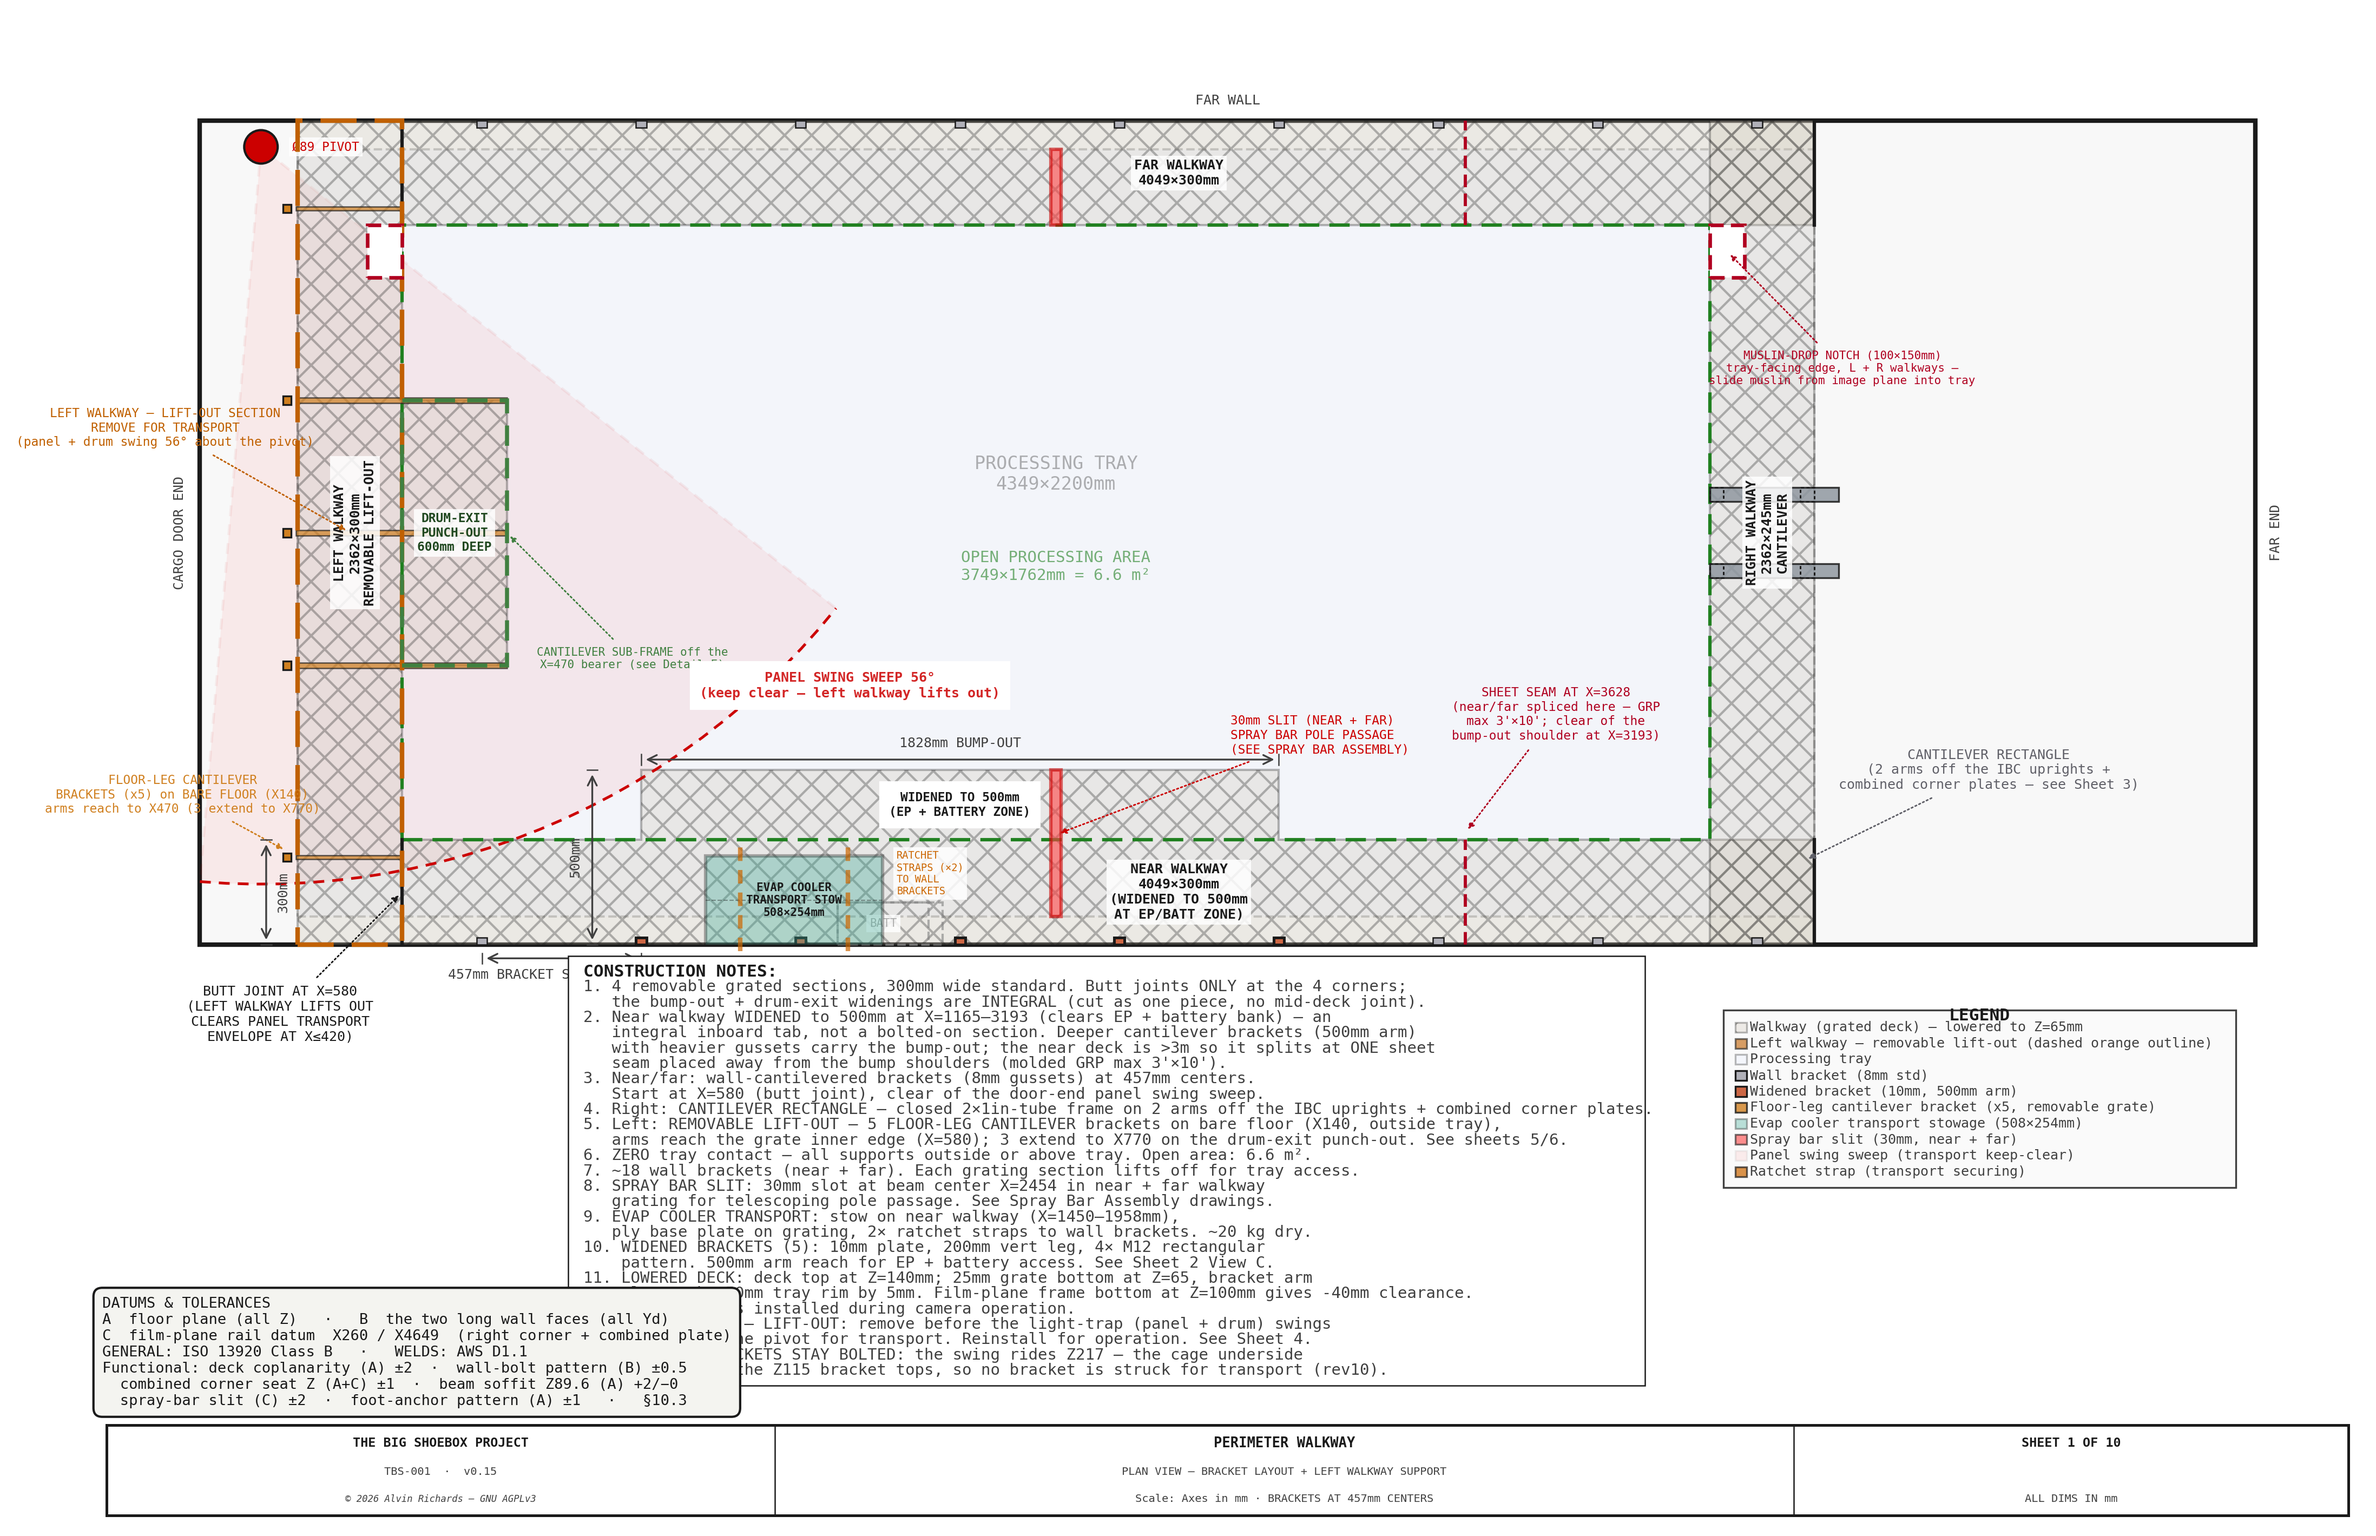
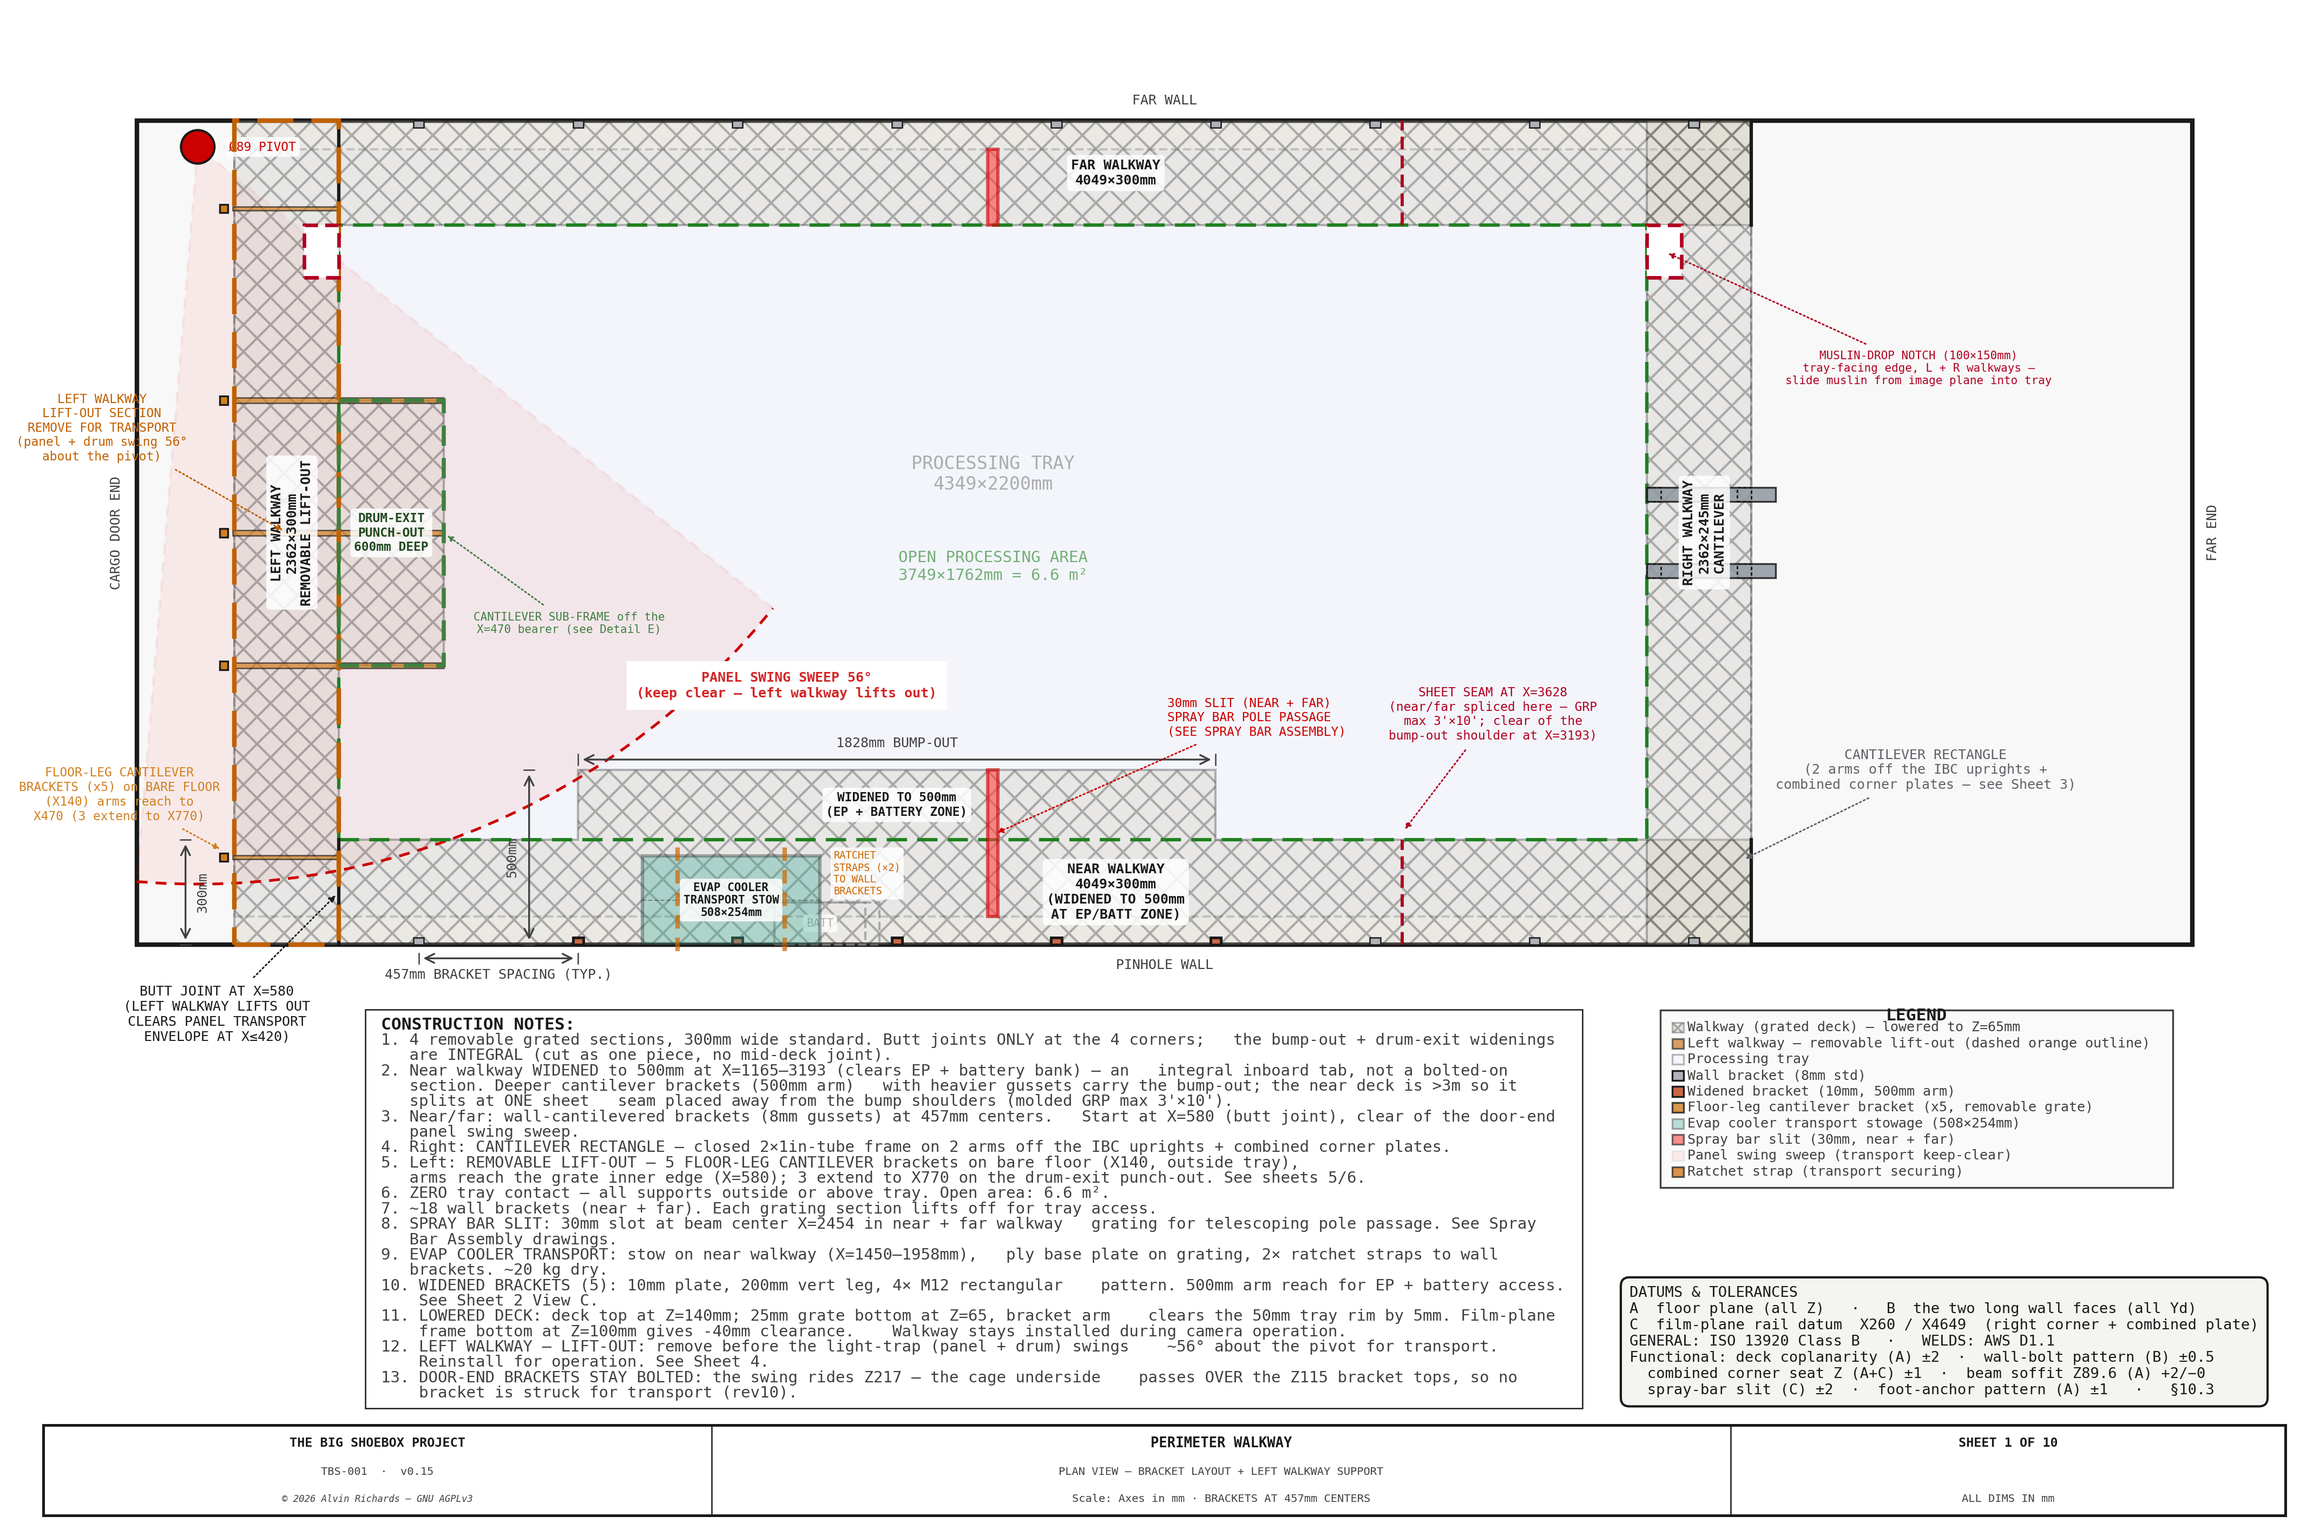
Tidy labels

diff --git a/src/generators/generate_walkway_diagram.py b/src/generators/generate_walkway_diagram.py
@@ -78,7 +78,7 @@ C_WALL  = "#C0C0C8"
 C_BRKT  = C_STEEL     # bracket fill — unified to the project-standard steel tone (lighter, matches sheet6 + the IBC/film-plane/hingepanel sheets; the darker #707888 was a readability outlier, 2026-08-18)
 FONT    = {"fontfamily": "monospace"}
 
-bbox = dict(fc="white", ec="none", pad=1.5, alpha=0.85)
+bbox = dict(boxstyle="round,pad=0.3", fc="white", ec="none", pad=1.5, alpha=0.85)
 
 # ═══════════════════════════════════════════════════════════════════════════════
 # SHEET 1 — Plan View of Walkway Layout
@@ -242,8 +242,8 @@ def sheet1():
     # Leader from left walkway center pointing left (clear of panel swing sweep)
     leader(ax, LX + W / 2, (NY + FYO) / 2,
            LX - 380, (NY + FYO) / 2 + 300,
-           f"LEFT WALKWAY — LIFT-OUT SECTION\n"
-           f"REMOVE FOR TRANSPORT\n(panel + drum swing 56° about the pivot)",
+           f"LEFT WALKWAY\nLIFT-OUT SECTION\n"
+           f"REMOVE FOR TRANSPORT\n(panel + drum swing 56°\nabout the pivot)",
            color=C_REMOVABLE, fs=5.5,
            ha="center", va="center", arrow_style="-|>", font=FONT)
 
@@ -256,7 +256,7 @@ def sheet1():
         ax.add_patch(Rectangle((_nx0, _NY0), _DX, _DY, fc="none", ec="#B00020",
                                lw=1.6, ls=(0, (4, 2)), zorder=15))
     leader(ax, WALKWAY_MUSLIN_NOTCH_R_X0 + _DX / 2, _NY0 + _DY / 2,
-           WALKWAY_MUSLIN_NOTCH_R_X0 + 380, _NY0 - 260,
+           WALKWAY_MUSLIN_NOTCH_R_X0 + 780, _NY0 - 260,
            f"MUSLIN-DROP NOTCH ({_DX}\u00d7{_DY}mm)\ntray-facing edge, L + R walkways —\nslide muslin from image plane into tray",
            color="#B00020", fs=5.0, ha="center", va="center", arrow_style="-|>", font=FONT)
 
@@ -280,7 +280,7 @@ def sheet1():
             fontweight="bold", **FONT, zorder=15, bbox=bbox)
     # Support leg under the cantilevered landing (see support detail sheet)
     leader(ax, pX0 + pW, pY0 + pH / 2,
-           pX0 + pW + 360, pY0 + pH / 2 - 360,
+           pX0 + pW + 360, pY0 + pH / 2 - 260,
            "CANTILEVER SUB-FRAME off the\nX=470 bearer (see Detail E)",
            color="#408040", fs=5,
            ha="center", va="center", arrow_style="-|>", font=FONT)
@@ -329,7 +329,7 @@ def sheet1():
     bump_cy = (NYI + WW) / 2
     ax.text(bump_cx, bump_cy, f"WIDENED TO {WW}mm\n(EP + BATTERY ZONE)",
             ha="center", va="center", fontsize=5.5, color=C_OUT,
-            backgroundcolor="#FFFFFF", fontweight="bold", **FONT, zorder=9)
+            backgroundcolor="#FFFFFF", bbox=bbox, fontweight="bold", **FONT, zorder=9)
     draw_dim_v(ax, WXL - 40, NY, WW,
                f"{WW}mm", offset=50, fs=6, right=False, font=FONT)
     # Dimension the ACTUAL drawn bump-out (snapped to the widened-bracket ribs WXL_B..WXR_B),
@@ -369,7 +369,7 @@ def sheet1():
                  fc="#FF4444", ec=C_SLIT, lw=1.5, alpha=0.6, zorder=7))
 
     leader(ax, slit_cx, NYI + 15,
-           slit_cx + 500, NYI + 300,
+           slit_cx + 500, NYI + 350,
            f"{slit_w}mm SLIT (NEAR + FAR)\nSPRAY BAR POLE PASSAGE\n(SEE SPRAY BAR ASSEMBLY)",
            color=C_SLIT, fs=5.5,
            ha="left", va="center", arrow_style="-|>", font=FONT)
@@ -385,7 +385,7 @@ def sheet1():
             color=C_OUT, lw=0.5, ls="--", alpha=0.4, zorder=7)
     ax.text(EVAP_STOW_X + EVAP_W / 2, EVAP_STOW_YD + EVAP_D / 2,
             f"EVAP COOLER\nTRANSPORT STOW\n{EVAP_W}×{EVAP_D}mm",
-            ha="center", va="center", fontsize=5, color=C_OUT,
+            ha="center", va="center", fontsize=5, color=C_OUT, bbox=bbox,
             fontweight="bold", **FONT, zorder=8)
     # Ratchet strap indicators (two lines across cooler to bracket arms)
     for strap_x in [EVAP_STOW_X + 100, EVAP_STOW_X + EVAP_W - 100]:
@@ -452,12 +452,12 @@ def sheet1():
                      fc=C_SUPPORT, ec=C_OUT, lw=0.8, zorder=9))
     leader(ax, leg_x, LEFT_WK_CANT_LEG_YDS[0] + leg_sz / 2 + 5,
            leg_x - 300, LEFT_WK_CANT_LEG_YDS[0] + 180,
-           "FLOOR-LEG CANTILEVER\nBRACKETS (x5) on BARE FLOOR (X140)\narms reach to X470 (3 extend to X770)",
+           "FLOOR-LEG CANTILEVER\nBRACKETS (x5) on BARE FLOOR\n(X140) arms reach to\nX470 (3 extend to X770)",
            color=C_SUPPORT, fs=5.5, ha="center", va="center", arrow_style="-|>", font=FONT)
 
     # ── Dimension lines ──────────────────────────────────────────────────────
     # Walkway width dimension (near walkway)
-    draw_dim_v(ax, PROC_TRAY_X_L - 90, WALKWAY_NEAR_YD, WALKWAY_NEAR_YD + WALKWAY_W,
+    draw_dim_v(ax, PROC_TRAY_X_L - 140, WALKWAY_NEAR_YD, WALKWAY_NEAR_YD + WALKWAY_W,
                f"{WALKWAY_W}mm", offset=50, fs=6, right=True, font=FONT)
 
     # Bracket spacing callout
@@ -490,36 +490,36 @@ def sheet1():
     n_brackets_total = n_brackets_near * 2  # near + far only (no right brackets)
     notes = [
         "CONSTRUCTION NOTES:",
-        f"1. 4 removable grated sections, {WALKWAY_W}mm wide standard. Butt joints ONLY at the 4 corners;",
+        f"1. 4 removable grated sections, {WALKWAY_W}mm wide standard. Butt joints ONLY at the 4 corners;"
         f"   the bump-out + drum-exit widenings are INTEGRAL (cut as one piece, no mid-deck joint).",
-        f"2. Near walkway WIDENED to {WALKWAY_NEAR_WIDE_W}mm at X={WXL}\u2013{WXR} (clears EP + battery bank) \u2014 an",
-        f"   integral inboard tab, not a bolted-on section. Deeper cantilever brackets ({WALKWAY_NEAR_WIDE_W}mm arm)",
-        f"   with heavier gussets carry the bump-out; the near deck is >3m so it splits at ONE sheet",
+        f"2. Near walkway WIDENED to {WALKWAY_NEAR_WIDE_W}mm at X={WXL}\u2013{WXR} (clears EP + battery bank) \u2014 an"
+        f"   integral inboard tab, not a bolted-on section. Deeper cantilever brackets ({WALKWAY_NEAR_WIDE_W}mm arm)"
+        f"   with heavier gussets carry the bump-out; the near deck is >3m so it splits at ONE sheet"
         f"   seam placed away from the bump shoulders (molded GRP max 3'\u00d710').",
-        f"3. Near/far: wall-cantilevered brackets ({WALKWAY_BRACKET_T}mm gussets) at {WALKWAY_BRACKET_SPACING}mm centers.",
+        f"3. Near/far: wall-cantilevered brackets ({WALKWAY_BRACKET_T}mm gussets) at {WALKWAY_BRACKET_SPACING}mm centers."
         f"   Start at X={LXR} (butt joint), clear of the door-end panel swing sweep.",
         f"4. Right: CANTILEVER RECTANGLE \u2014 closed 2\u00d71in-tube frame on 2 arms off the IBC uprights + combined corner plates.",
         f"5. Left: REMOVABLE LIFT-OUT \u2014 5 FLOOR-LEG CANTILEVER brackets on bare floor (X140, outside tray),",
         f"   arms reach the grate inner edge (X={LXR}); 3 extend to X770 on the drum-exit punch-out. See sheets 5/6.",
         f"6. ZERO tray contact \u2014 all supports outside or above tray. Open area: {PROC_OPEN_AREA:.1f} m\u00b2.",
         f"7. ~{n_brackets_total} wall brackets (near + far). Each grating section lifts off for tray access.",
-        f"8. SPRAY BAR SLIT: {SPRAY_BAR_SLIT_W}mm slot at beam center X={int((PROC_OPEN_X_L + PROC_OPEN_X_R) / 2)} in near + far walkway",
+        f"8. SPRAY BAR SLIT: {SPRAY_BAR_SLIT_W}mm slot at beam center X={int((PROC_OPEN_X_L + PROC_OPEN_X_R) / 2)} in near + far walkway"
         f"   grating for telescoping pole passage. See Spray Bar Assembly drawings.",
-        f"9. EVAP COOLER TRANSPORT: stow on near walkway (X={EVAP_STOW_X}–{EVAP_STOW_X + EVAP_W}mm),",
+        f"9. EVAP COOLER TRANSPORT: stow on near walkway (X={EVAP_STOW_X}–{EVAP_STOW_X + EVAP_W}mm),"
         f"   ply base plate on grating, 2× ratchet straps to wall brackets. ~20 kg dry.",
-        f"10. WIDENED BRACKETS ({len(_wide_brkt)}): {WALKWAY_WIDE_BRACKET_T}mm plate, {WALKWAY_WIDE_BRACKET_H}mm vert leg, 4× M12 rectangular",
+        f"10. WIDENED BRACKETS ({len(_wide_brkt)}): {WALKWAY_WIDE_BRACKET_T}mm plate, {WALKWAY_WIDE_BRACKET_H}mm vert leg, 4× M12 rectangular"
         f"    pattern. 500mm arm reach for EP + battery access. See Sheet 2 View C.",
-        f"11. LOWERED DECK: deck top at Z={WALKWAY_H}mm; {WALKWAY_GRATE_T}mm grate bottom at Z=65, bracket arm",
-        f"    clears the {PROC_TRAY_RIM}mm tray rim by 5mm. Film-plane frame bottom at Z=100mm gives {100 - WALKWAY_H}mm clearance.",
+        f"11. LOWERED DECK: deck top at Z={WALKWAY_H}mm; {WALKWAY_GRATE_T}mm grate bottom at Z=65, bracket arm"
+        f"    clears the {PROC_TRAY_RIM}mm tray rim by 5mm. Film-plane frame bottom at Z=100mm gives {100 - WALKWAY_H}mm clearance."
         f"    Walkway stays installed during camera operation.",
-        f"12. LEFT WALKWAY — LIFT-OUT: remove before the light-trap (panel + drum) swings",
+        f"12. LEFT WALKWAY — LIFT-OUT: remove before the light-trap (panel + drum) swings"
         f"    ~{SWING_LOCK_DEG}° about the pivot for transport. Reinstall for operation. See Sheet 4.",
-        f"13. DOOR-END BRACKETS STAY BOLTED: the swing rides Z{PANEL_FLOOR_GAP} — the cage underside",
+        f"13. DOOR-END BRACKETS STAY BOLTED: the swing rides Z{PANEL_FLOOR_GAP} — the cage underside"
         f"    passes OVER the Z115 bracket tops, so no bracket is struck for transport (rev10).",
     ]
-    draw_notes(ax, notes, 1100,
-               -PAD_Y_BOT + 450 + (len(notes) - 1) * 44,
-               spacing=44, fs=7, width=3000, font=FONT)
+    draw_notes(ax, notes, 700,
+               -PAD_Y_BOT + 825 + (len(notes) - 1) * 44,
+               spacing=44, fs=7, wrap=125, width=3400, font=FONT)
 
     # ── DATUMS & TOLERANCES callout (Phase C) ────────────────────────────────
     dt_lines = [
@@ -531,7 +531,7 @@ def sheet1():
         f"  combined corner seat Z (A+C) ±1  ·  beam soffit Z{WALKWAY_BRACKET_ARM_Z0:.1f} (A) +2/−0",
         "  spray-bar slit (C) ±2  ·  foot-anchor pattern (A) ±1   ·   §10.3",
     ]
-    ax.text(-280, -1010, "\n".join(dt_lines), ha="left", va="top", fontsize=6.5,
+    ax.text(4280, -980, "\n".join(dt_lines), ha="left", va="top", fontsize=6.5,
             color=C_OUT, **FONT, zorder=16,
             bbox=dict(boxstyle="round,pad=0.6", fc="#F4F4F0", ec=C_OUT, lw=1.0))
 
